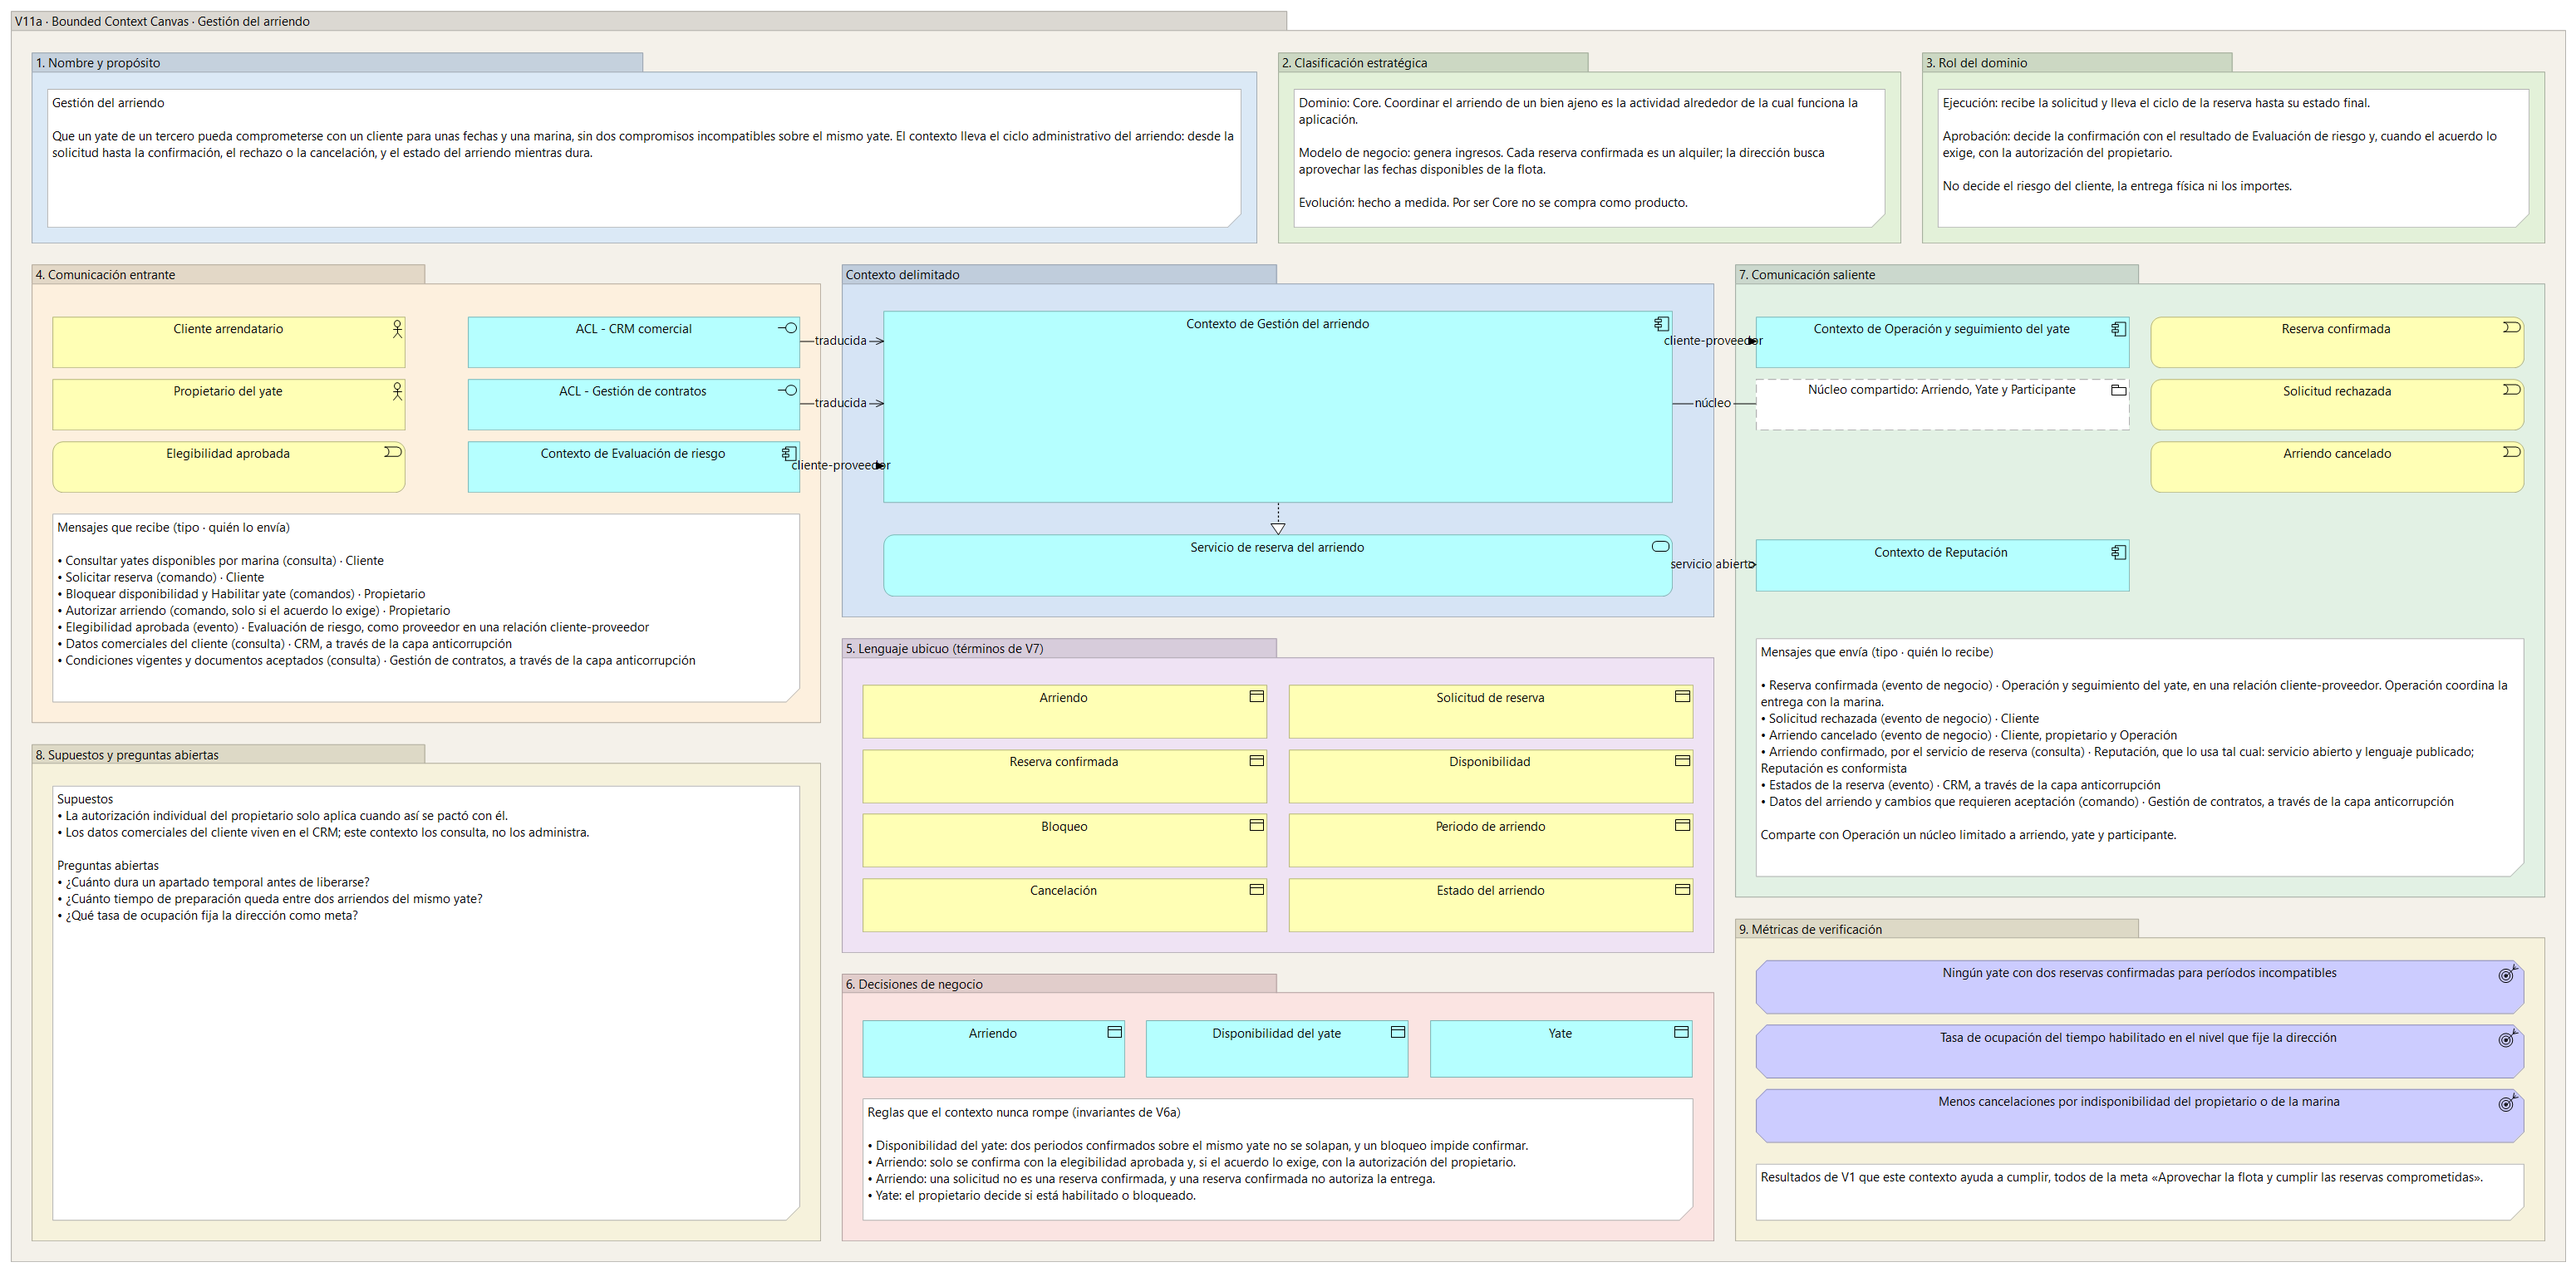
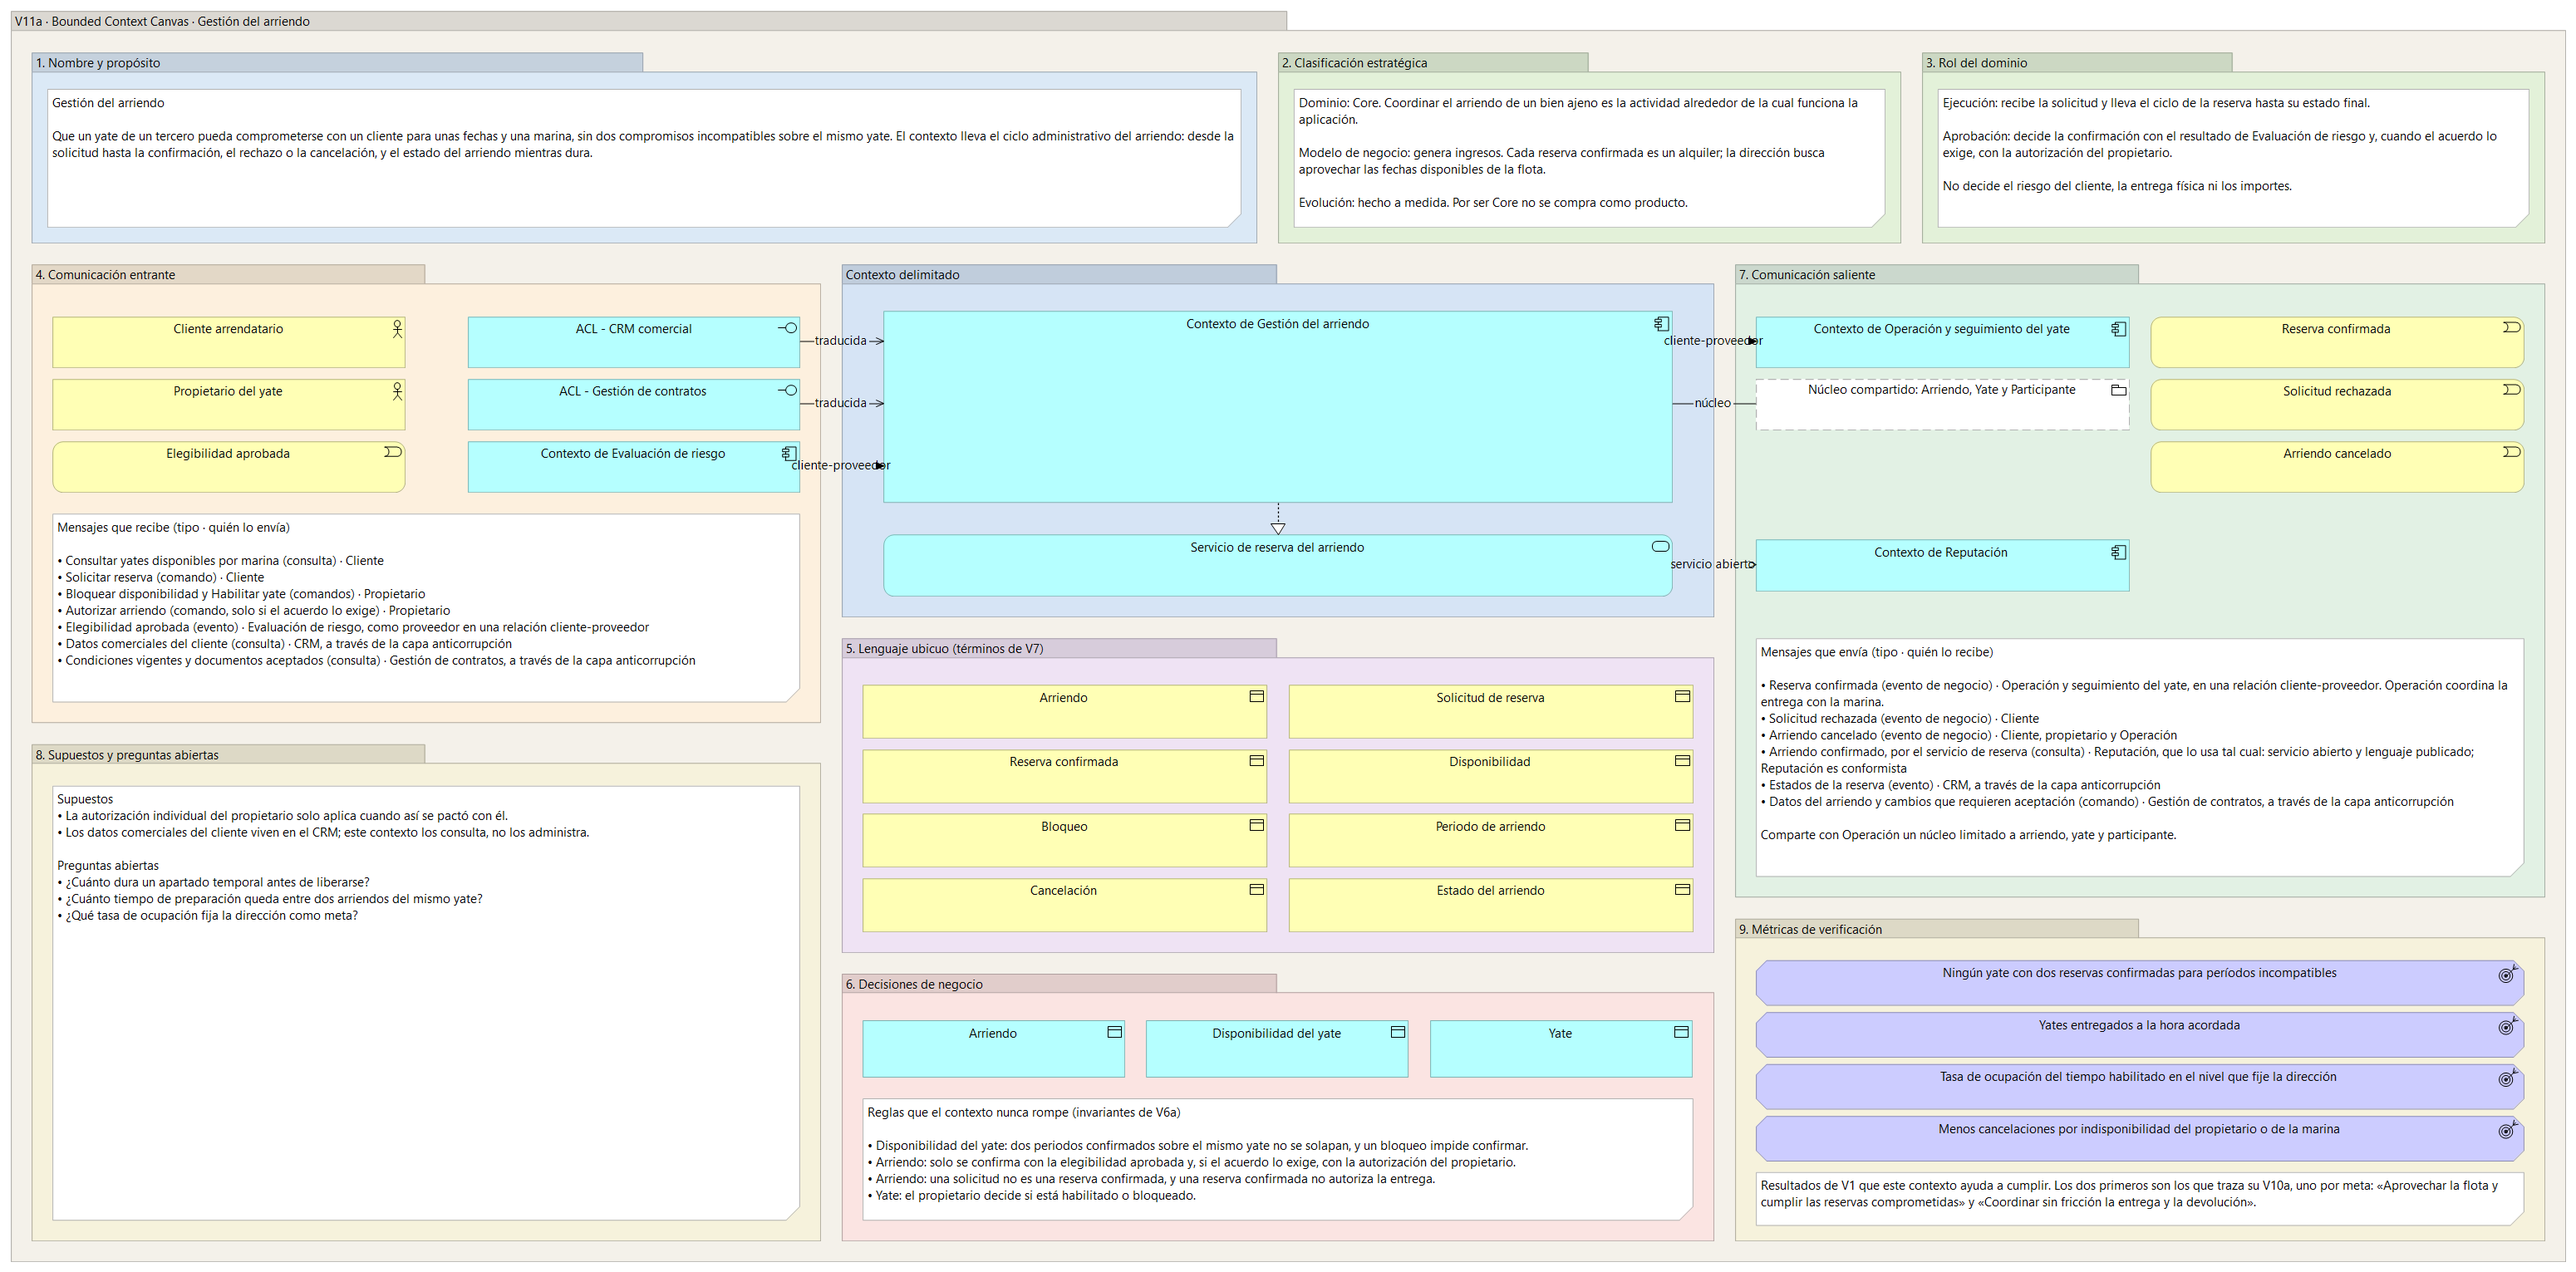
Correcion README

Changed region(s): [[0.6813, 0.7675, 0.991, 0.9824]]

diff --git a/README.md b/README.md
@@ -441,7 +441,7 @@ Lo construimos como vista ArchiMate y no como Canvas de Archi para que cada secc
 
 El [documento de investigación del Canvas](Componente%20Investigativo/Componente%20Investigativo%20Canvas%20Contexto%20Delimitado.pdf) reúne las referencias consultadas de DDD Crew, Eric Evans y Martin Fowler. También explica cómo se adaptaron las secciones del Bounded Context Canvas a una vista de ArchiMate con grupos, elementos del modelo y notas.
 
-Cada mensaje lleva su tipo, porque no es lo mismo una orden que un hecho. «Solicitar reserva» y «Bloquear disponibilidad» son comandos; «Elegibilidad aprobada» y «Reserva confirmada» son eventos; los datos del CRM y las condiciones del contrato son consultas. El lenguaje ubicuo usa los ocho términos de V7 para este dominio, incluidas «Solicitud de reserva» y «Reserva confirmada» por separado. Las decisiones de negocio muestran las tres raíces de agregado de V6a con sus invariantes, y las métricas son los tres resultados de V1 que este contexto ayuda a cumplir.
+Cada mensaje lleva su tipo, porque no es lo mismo una orden que un hecho. «Solicitar reserva» y «Bloquear disponibilidad» son comandos; «Elegibilidad aprobada» y «Reserva confirmada» son eventos; los datos del CRM y las condiciones del contrato son consultas. El lenguaje ubicuo usa los ocho términos de V7 para este dominio, incluidas «Solicitud de reserva» y «Reserva confirmada» por separado. Las decisiones de negocio muestran las tres raíces de agregado de V6a con sus invariantes, y las métricas son cuatro resultados de V1 que este contexto ayuda a cumplir; los dos primeros son los mismos que traza su V10a.
 
 Quedan tres preguntas abiertas que la entrevista no respondió: cuánto dura un apartado temporal, cuánto tiempo de preparación queda entre dos arriendos del mismo yate y qué tasa de ocupación fija la dirección como meta.
 
